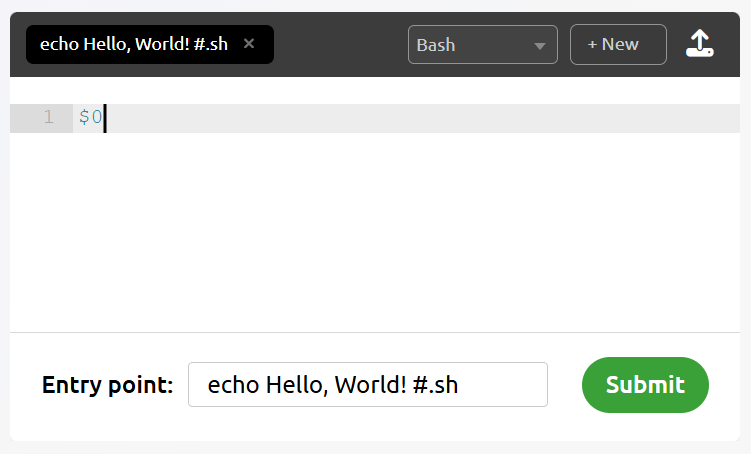
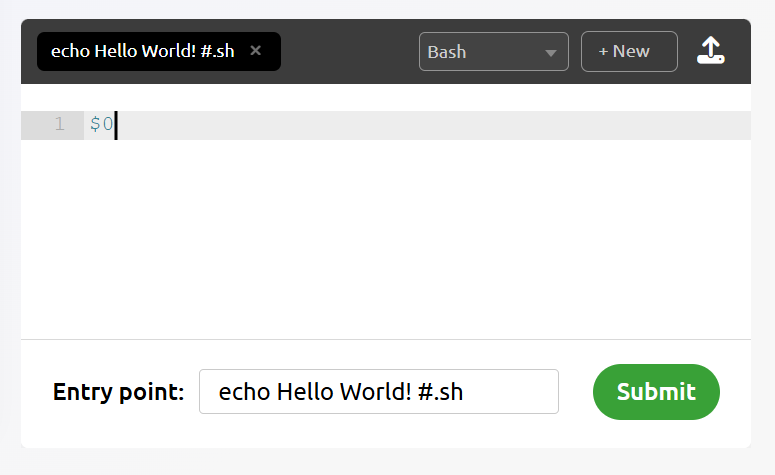
Update kattis writeup

diff --git a/content/posts/how-to-cheat-on-kattis.md b/content/posts/how-to-cheat-on-kattis.md
@@ -7,15 +7,15 @@ tags = ['golf', 'polyglot']
 [Kattis](https://open.kattis.com/) is one of those popular competitive programming
 sites, where people go to practice ICPC-style coding problems. I don't use it
 personally, but a while ago I found out they have a shortest code leaderboard.
-The easiest problem on the site is called [Hello, World!](https://open.kattis.com/problems/hello),
-where the task is simply to print `Hello, World!` to STDOUT.
+The easiest problem on the site is called [Hello World!](https://open.kattis.com/problems/hello),
+where the task is simply to print `Hello World!` to STDOUT.
 
 ![Kattis problem statement](/kattis-problem-statement.png)
 
 It seems straightforward at first, but if you check the [leaderboards](https://open.kattis.com/problems/hello/statistics), the shortest submission to the problem is an astonishing
 **5 characters** long (in Bash)! Common sense tells us that
-`Hello, World!` costs 13 characters alone, so this score should not be possible
-from an entropy prospective...
+`Hello World!` costs 12 characters alone, so this score should not be possible
+from an entropy perspective...
 
 I did some digging myself, and after re-discovering the solution, it is both
 disappointing and awesome at the same time (but mostly awesome).
@@ -29,7 +29,7 @@ editor, and a big green submit button:
 ![Kattis submission box](/kattis-submission-box.png)
 
 What is not so standard among other judges is the editable *Entry point* field,
-which allows one to change the filename of the program being executed. The
+which allows one to rename the file of the program being executed. The
 reason this exists is that we are actually allowed to submit multiple files
 through the *+New* button in the top right corner. This is probably to allow
 submissions to import other files. Usually CP'ers just code everything in one
@@ -44,13 +44,13 @@ as the *filename*, and execute the filename in the actual program?
 
 ### Filename smuggling
 
-So here's the setup. We set our entrypoint to `echo Hello, World! #.sh` and our
+So here's the setup. We set our entrypoint to `echo Hello World! #.sh` and our
 code as `$0`, which expands to the filename and executes it. The judge requires
 the filename to end in `.sh` for Bash, hence the awkward comment.
 
 ![Kattis filename smuggling example](/kattis-filename-smuggling.png)
 
-If this works, we would technically have a valid 2-byte *Hello, World!* program.
+If this works, we would technically have a valid 2-byte *Hello World!* program.
 But if we try to submit it, Kattis complains:
 
 > *Error: Filename containing non-valid characters.
@@ -79,7 +79,7 @@ characters?
 Why **Perl**, of course! It is [well known](https://www.mcmillen.dev/sigbovik/2019.pdf)
 that nearly anything can be a Perl program, and this regex is no exception.
 
-Would you believe this is a valid Perl program that prints `Hello, World!`:
+Would you believe this is a valid Perl program that prints `Hello World!`:
 
 ```perl
 eval-prin.t.v34.Hello.v32.World.v33.34.v59.pl
@@ -124,7 +124,7 @@ This prompts the following idea: say we wish to execute a command like `cowsay`.
 Instead of using up all 6 characters, we can:
 
 - Submit an empty file called `cowsay` along with the entrypoint.
-- Replace `cowsay` with `c*`, which expands to `cowsay` since that is likely
+- In the *code*, replace `cowsay` with `c*`, which expands to `cowsay` since that is likely
 the only file that begins with `c` in the working directory.
 
 This type of glob injection lets us write virtually any command in just 2 characters!
